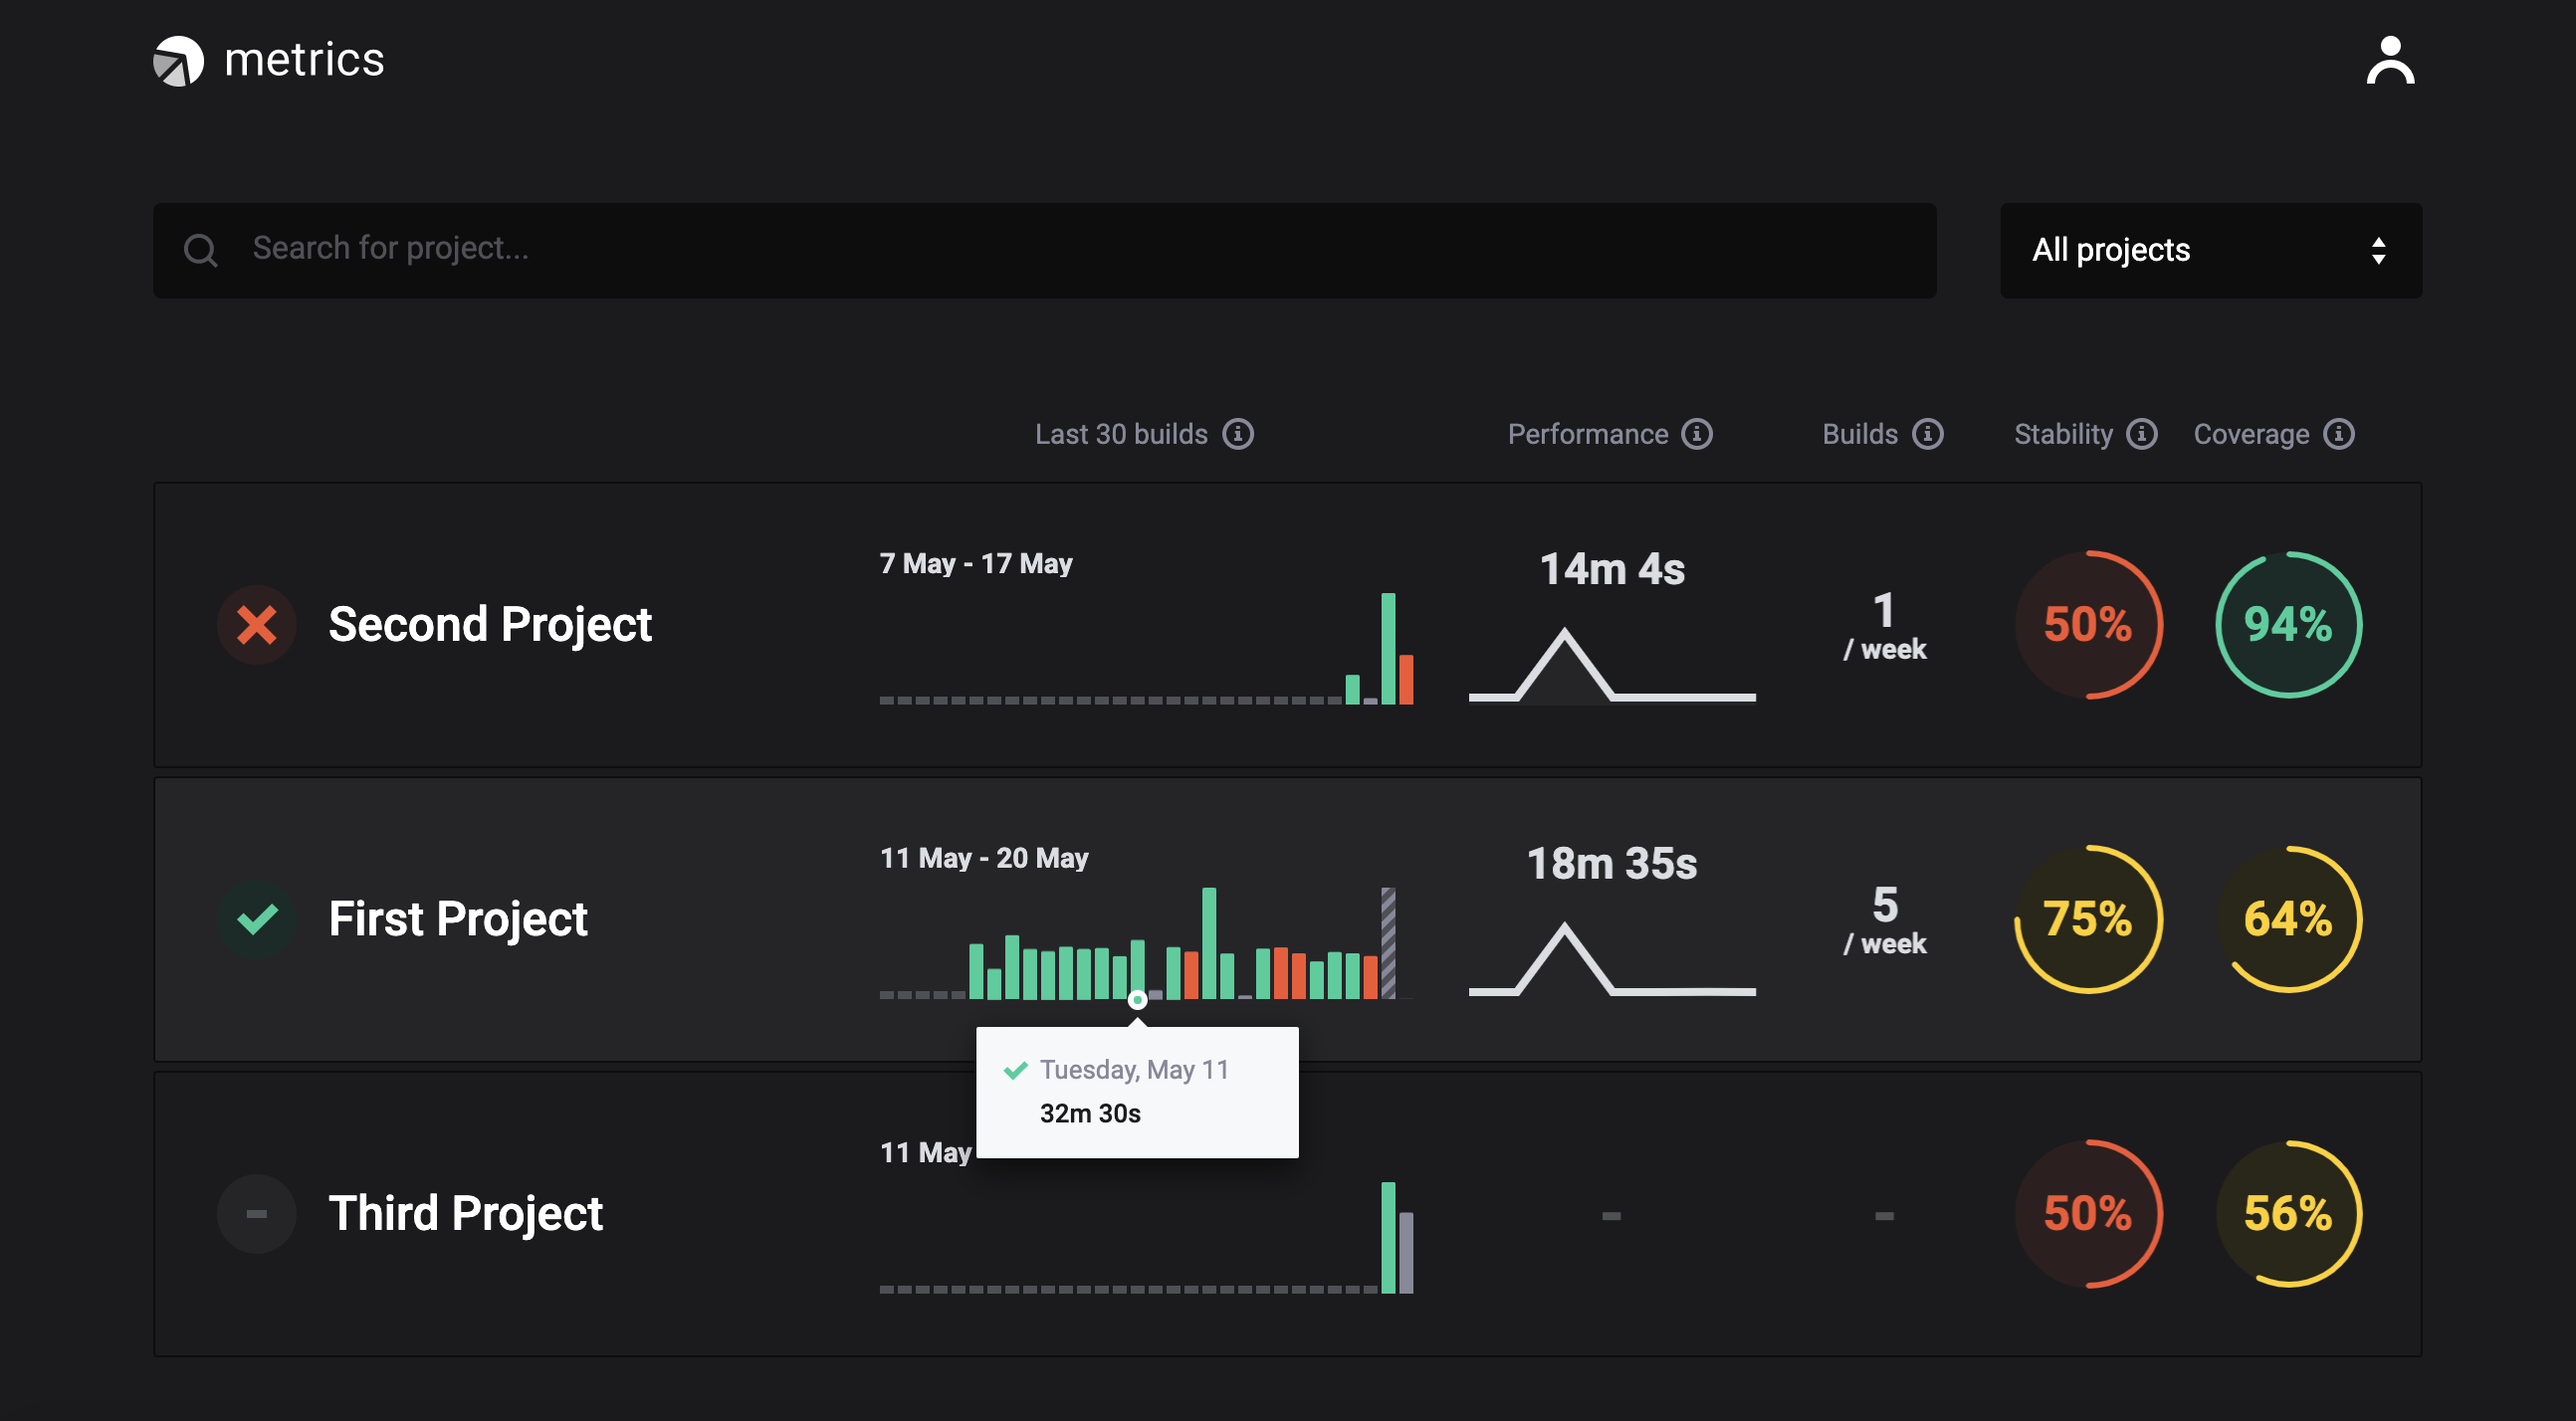
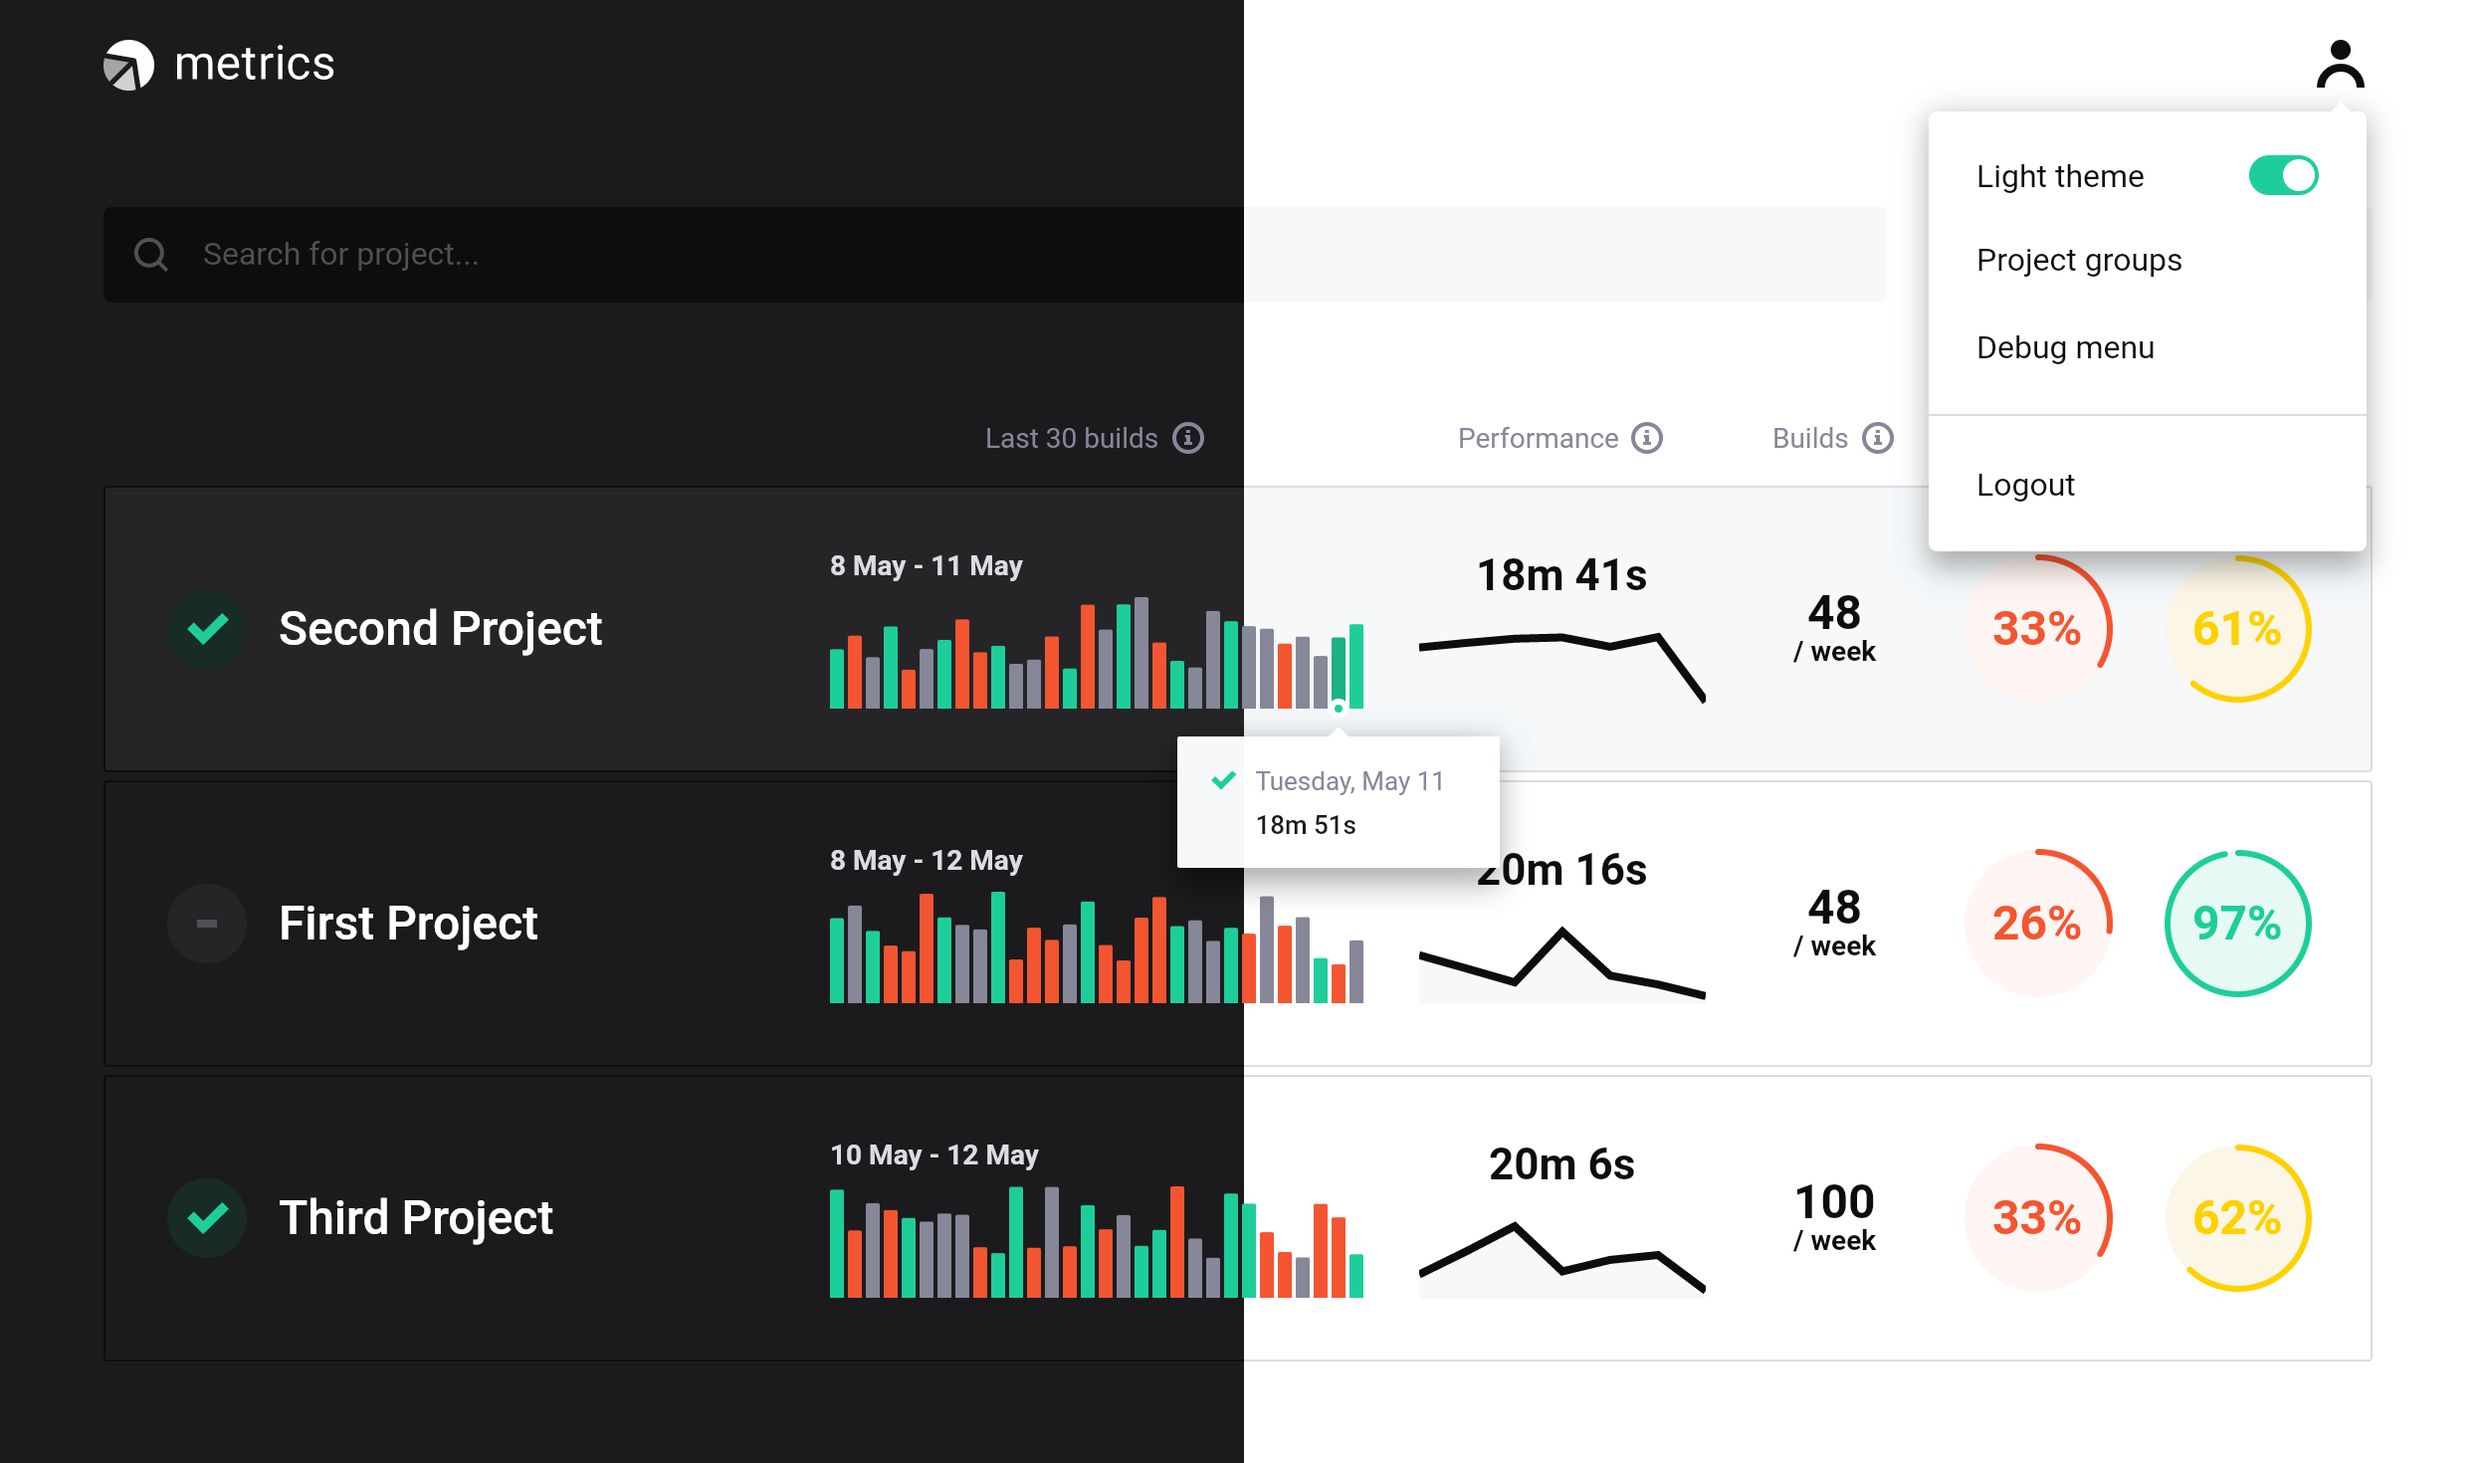
Fix images

diff --git a/readme.md b/readme.md
@@ -28,7 +28,7 @@ The Metrics Web Application displays the next project metrics on the dashboard:
 
 See [Project metrics definitions](https://github.com/platform-platform/dashboard/blob/improve_repository_readme/docs/05_project_metrics.md) document to get more information about project metrics.
 
-![Metrics Dashboard](docs/images/dashboard_ui.png)
+![Metrics Dashboard](docs/images/dashboard_ui_dark.png)
 
 ## :test_tube: Api Mock Server
 [Api Mock Server](api_mock_server) is a package that provides an abstraction to create mock HTTP servers for testing 3-rd party API integrations. Consider the [Third Party API Testing](https://github.com/platform-platform/monorepo/blob/master/docs/03_third_party_api_testing.md) and [Mock Server](https://github.com/platform-platform/monorepo/blob/master/docs/04_mock_server.md) documents for more details.
